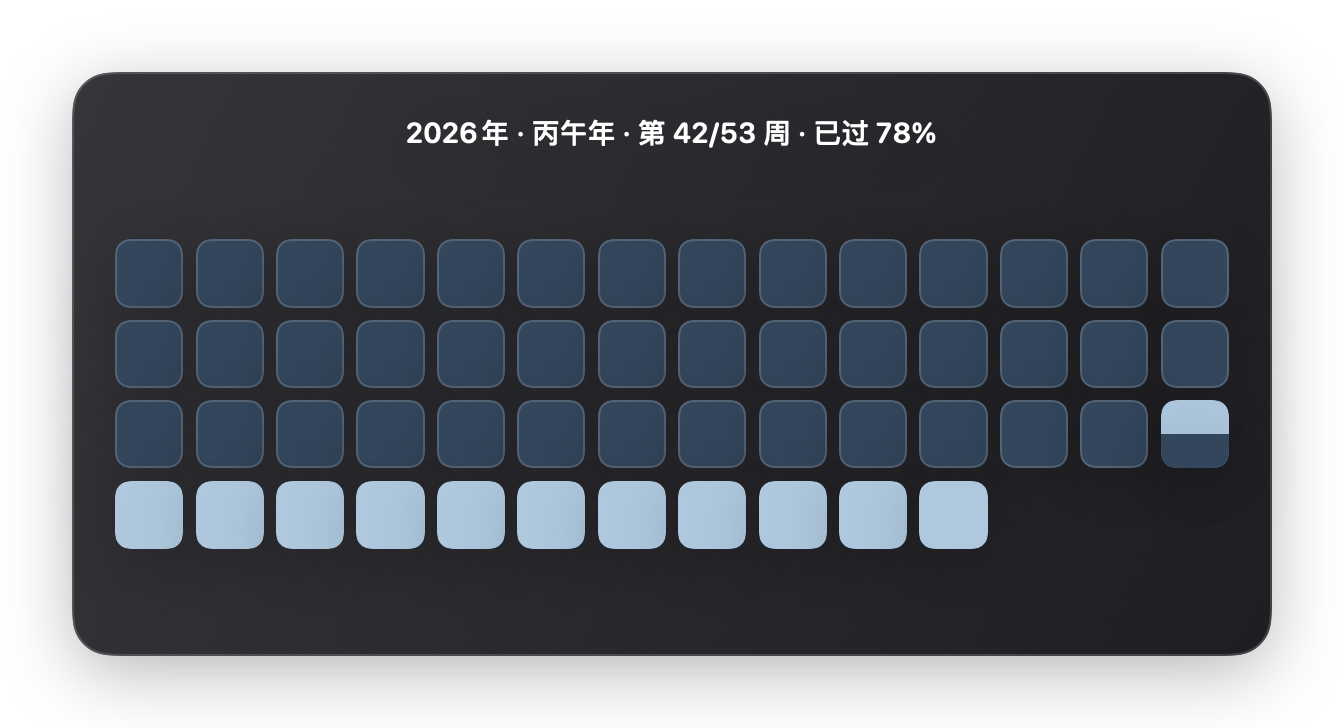
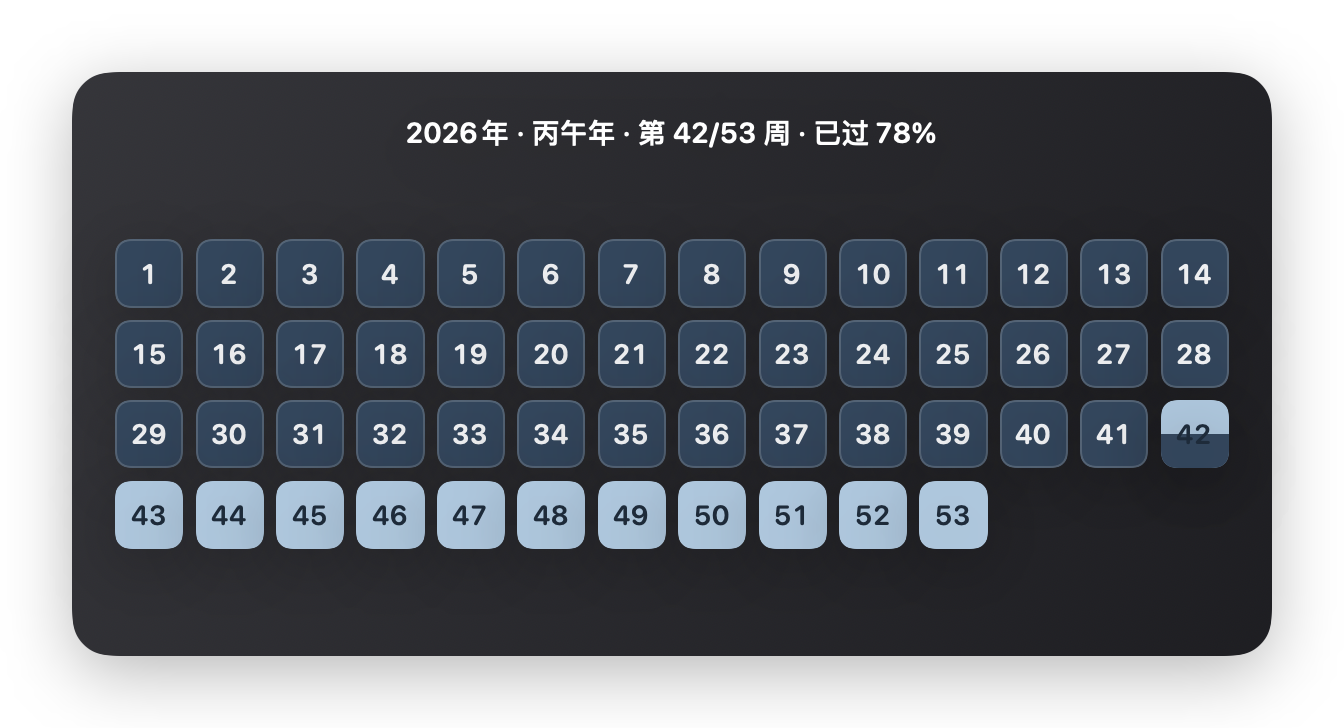
feat(ui): 每个方块居中显示周序号

diff --git a/Sources/YearProgressUI/YearProgressCardView.swift b/Sources/YearProgressUI/YearProgressCardView.swift
@@ -150,6 +150,14 @@ private struct WeekBlockView: View {
                         .frame(height: max(0, min(1, cell.fraction)) * side)
                 }
             }
+            // 第几周：水平 + 垂直居中
+            Text("\(cell.index)")
+                .font(.system(size: max(5.5, side * 0.40), weight: .semibold, design: .rounded).monospacedDigit())
+                .foregroundStyle(labelColor)
+                .lineLimit(1)
+                .minimumScaleFactor(0.55)
+                .frame(maxWidth: .infinity, maxHeight: .infinity, alignment: .center)
+                .allowsHitTesting(false)
         }
         .frame(width: side, height: side)
         .clipShape(RoundedRectangle(cornerRadius: radius, style: .continuous))
@@ -168,6 +176,15 @@ private struct WeekBlockView: View {
         case .past: return theme.pastFill
         case .future: return theme.futureFill
         case .current: return theme.currentFill
+        }
+    }
+
+    /// 文字压在当前周的进度条上时，按进度条是否盖住中心切换前景色
+    private var labelColor: Color {
+        switch cell.state {
+        case .past: return theme.pastLabel
+        case .future: return theme.futureLabel
+        case .current: return cell.fraction > 0.5 ? theme.pastLabel : theme.futureLabel
         }
     }
 

diff --git a/Sources/YearProgressUI/CardTheme.swift b/Sources/YearProgressUI/CardTheme.swift
@@ -78,6 +78,22 @@ public enum CardTheme: String, CaseIterable, Identifiable, Sendable {
         }
     }
 
+    /// 方块里周数字的颜色（深块用浅字、浅块用深字）
+    public var pastLabel: Color {
+        switch self {
+        case .violet: return .white
+        case .graphite, .slate: return Color.white.opacity(0.92)
+        case .system: return Color(nsColor: .windowBackgroundColor)   // 与 .primary 相反
+        }
+    }
+    public var futureLabel: Color {
+        switch self {
+        case .violet: return Color(red: 0.227, green: 0.161, blue: 0.376)   // #3A2960
+        case .graphite, .slate: return Color(red: 0.118, green: 0.169, blue: 0.227) // #1E2B3A
+        case .system: return .primary
+        }
+    }
+
     /// 本周：浅色底（还没过）+ 从底部升起的深色进度条（已过）。
     public var currentFill: Color { futureFill }
     public var currentProgressFill: Color { pastFill }

diff --git a/PLAN.md b/PLAN.md
@@ -172,6 +172,7 @@ public struct YearProgress {
   石墨主题另外给深色块加 1px 半透明描边，防止与卡片底色粘连。
 - 圆角：`s * 0.22`；间距随尺寸缩放，整体气质偏克制、无阴影堆叠。
 - 信息层：**顶部一行居中** —— 年份 · 干支 · `第 42/53 周` · `已过 78%`；跨年周时补一行小字。
+- 每个方块中央显示周序号（阿拉伯数字），深浅底自动切换前景色。
 - **系统小组件固定用暗岩灰底色**（`#33363B → #202327`）+ 与面板相同的方块色（`#33465C` / `#AFC8DE`），菜单里的主题/尺寸只作用于桌面挂件。
 - 桌面挂件的网格**复用系统中号小组件的行列**（`WidgetGridReference`，按 338×158 基准推算）：
   53 周 = 14 列 × 4 行（末行 11 块），52 周 = 13 列 × 4 行。

diff --git a/README.md b/README.md
@@ -1,6 +1,7 @@
 # 年进度小组件 · YearProgress
 
-把「一年里的每一周」画成一格小方块：**已过的周是深色块，未来的周是浅色块，本周是浅底 + 从底部升起的深色进度条**。
+把「一年里的每一周」画成一格小方块，**每个方块中央显示第几周（阿拉伯数字）**：
+**已过的周是深色块（白字），未来的周是浅色块（深字），本周是浅底 + 从底部升起的深色进度条**。
 顶部一行居中显示「2026年 · 丙午年 · 第 42/53 周 · 已过 78%」，下面是方块网格。
 
 两种状态的颜色都和底色同色系、明度差接近：紫色主题是**深梅子 `#2F1E57` / 浅薰衣草 `#CFBFF8`**，
